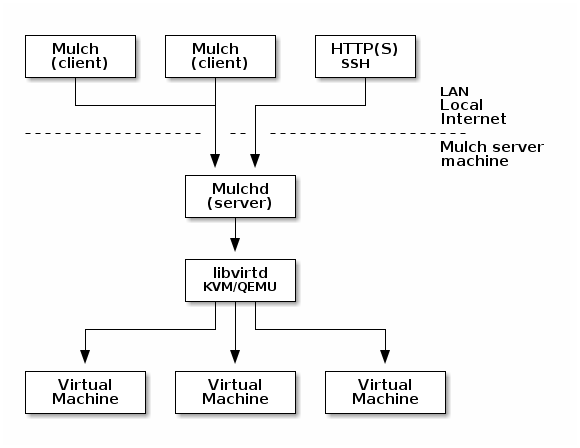
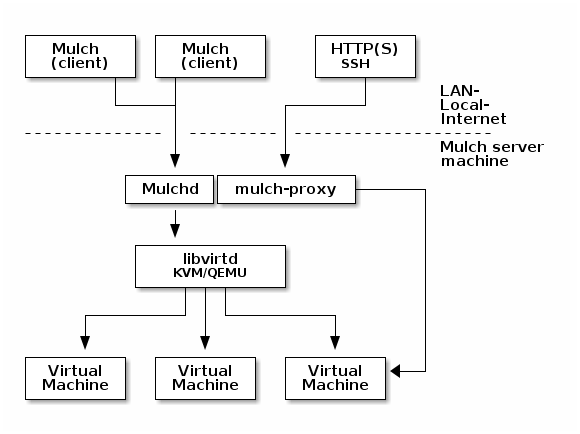
update README

diff --git a/README.md b/README.md
@@ -68,7 +68,7 @@ VM on its port 80 as HTTP. You may use another port if needed, using `test1.exam
 
 Mulch will automatically generate a HTTPS certificate, and HTTP requests will be redirected
 to HTTPS (this is the default anyway). Requests to `www.test1.example.com` will be redirected
-to `test1.example.com` (including HTTPS requests).
+to `test1.example.com` (including HTTPS requests). All you have to do is point Mulch server in your DNS zone.
 
 ```toml
 # If all prepare scripts share the same base URL, you can use prepare_prefix_url.
@@ -107,17 +107,29 @@ This schema show the basic Mulch infrastructure:
 
 ![mulch infrastructure](https://raw.github.com/Xfennec/mulch/master/doc/images/img_infra.png)
 
+Mulchd receive requests from Mulch clients (REST API, HTTP, port `8585`) for VM management.
+Application serving is done through HTTP(S) requests to mulch-proxy (ports `80` and `443`) and
+SSH proxied access is done by mulchd (port `8022`).
 
-Also, a schema with VM lifecycle (cloud-init, prepare, install, backup, restore)
+VM have this lifecycle :
+
+![mulch VMs lifecycle](https://raw.github.com/Xfennec/mulch/master/doc/images/img_lifecyce.png)
+
+A new VM is channeled through *prepare* and *install* steps. If you create a
+VM from a previous backup, *install* is replaced by *restore*.
+
+Note that you can modify *cloud-init* step, but it's used internally by Mulch to
+init the VM (injecting SSH keys, configure "home-phoning", …) and should have
+no interest.
 
 Show me some more features!
 ---
-https
-ssh (admin, app)
-seed list
-backup
-rebuild
-lock
+- https
+- ssh (admin, app)
+- seed list
+- backup (qcow2)
+- rebuild
+- lock
 
 How do I install the client?
 ---
